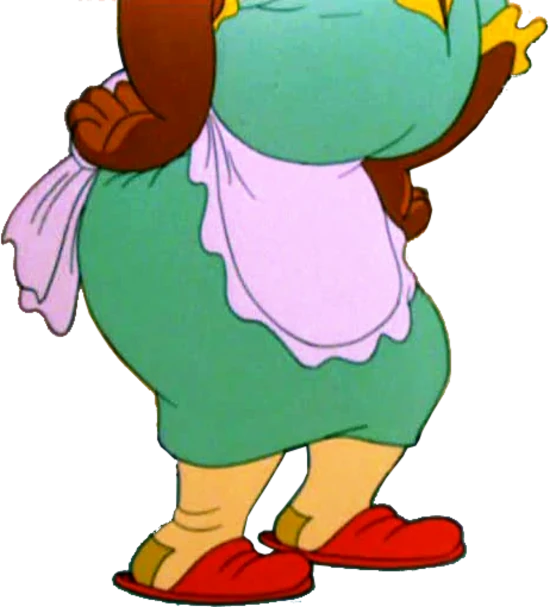
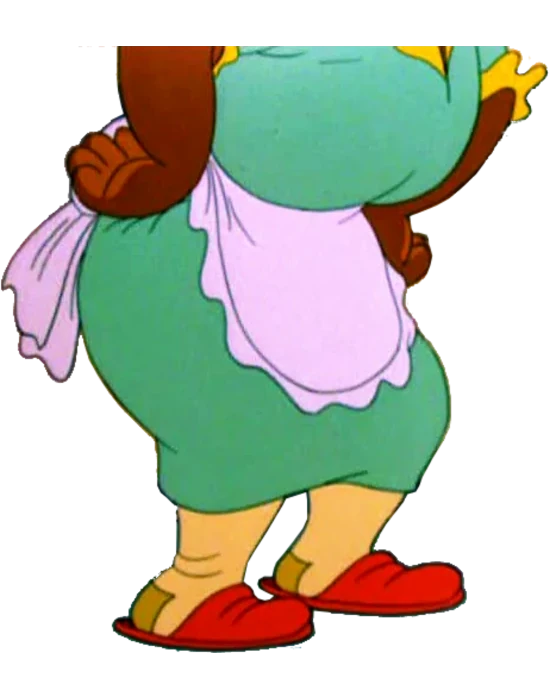
Add working data change on strip click and refactored images on strip

diff --git a/index.html b/index.html
@@ -55,29 +55,29 @@
                 </div>
                 <p class="main__info__text">Jeremy Adam "Jerry" Mouse is a fictional character and is one of two protagonists in Metro-Goldwyn Mayer's series of Tom and Jerry theatrical cartoon short films. Created by William Hanna and Joseph Barbera, he is a brown house mouse, who first appeared as an unnamed mouse in the 1940 MGM animated short Puss Gets the Boot. Hanna gave the mouse's original name as Jinx, while Barbera claimed the mouse went unnamed in his first appearance.</p>
                 <ul class="main__info__strip">
-                    <li class="main__info__strip__link_1">
-                      <a href="#"><img class="main__info__strip__link__image" src="img/jerry_mouse.webp" alt="Jerry Mouse"></a>
+                    <li>
+                      <a href="#"><img id="2jerry" class="main__info__strip__link__image" src="img/jerry_mouse.webp" alt="Jerry Mouse"></a>
                     </li>
-                    <li class="main__info__strip__link_2">
-                      <a href="#"><img class="main__info__strip__link__image" src="img/tom_cat.webp" alt="Tom Cat"></a>
+                    <li>
+                      <a href="#"><img id="2tom" class="main__info__strip__link__image" src="img/tom_cat.webp" alt="Tom Cat"></a>
                     </li>
-                    <li class="main__info__strip__link_3">
-                      <a href="#"><img class="main__info__strip__link__image" src="img/spike_bulldog.webp" alt="Spike Bulldog"></a>
+                    <li>
+                      <a href="#"><img id="2spike" class="main__info__strip__link__image" src="img/spike_bulldog.webp" alt="Spike Bulldog"></a>
                     </li>
-                    <li class="main__info__strip__link_4">
-                      <a href="#"><img class="main__info__strip__link__image" src="img/tyke_bulldog.webp" alt="Tyke Bulldog"></a>
+                    <li>
+                      <a href="#"><img id="2tyke" class="main__info__strip__link__image" src="img/tyke_bulldog.webp" alt="Tyke Bulldog"></a>
                     </li>
-                    <li class="main__info__strip__link_5">
-                      <a href="#"><img class="main__info__strip__link__image" src="img/nibbles_mouse.webp" alt="Nibbles Mouse"></a>
+                    <li>
+                      <a href="#"><img id="2nibbles" class="main__info__strip__link__image" src="img/nibbles_mouse.webp" alt="Nibbles Mouse"></a>
                     </li>
-                    <li class="main__info__strip__link_6">
-                      <a href="#"><img class="main__info__strip__link__image" src="img/mammy_two_shoes.webp" alt="Mammy Two Shoes"></a>
+                    <li>
+                      <a href="#"><img id="2mammy" class="main__info__strip__link__image" src="img/mammy_two_shoes.webp" alt="Mammy Two Shoes"></a>
                     </li>
-                    <li class="main__info__strip__link_7">
-                      <a href="#"><img class="main__info__strip__link__image" src="./img/uncle_pecos.webp" alt="Uncle Pecos"></a>
+                    <li>
+                      <a href="#"><img id="2uncle" class="main__info__strip__link__image" src="./img/uncle_pecos.webp" alt="Uncle Pecos"></a>
                     </li>
-                    <li class="main__info__strip__link_8">
-                      <a href="#"><img class="main__info__strip__link__image" src="./img/toodles_galore.webp" alt="Toodles Galore"></a>
+                    <li>
+                      <a href="#"><img id="2toodles" class="main__info__strip__link__image" src="./img/toodles_galore.webp" alt="Toodles Galore"></a>
                     </li>
                 </ul>
             </main>

diff --git a/script.js b/script.js
@@ -5,18 +5,17 @@ const body = document.body;
 const modeSwitcher = document.querySelector('.switcher');
 const modeSwitcherImage = document.querySelector('.switcher__image');
 const menu = document.querySelector('.main__navigation__menu__list');
+const menuStrip = document.querySelector('.main__info__strip');
 const modeImages = ["img/moon-icon.svg", "img/sun-icon.svg"];
 const burger = document.querySelectorAll('.main__navigation__menu__burger');
-const table = document.querySelector('table');
+//const table = document.querySelector('table');
 const mainName = document.querySelector('.main__info__name');
 const mainImage = document.querySelector('.main__info__image');
 const mainText = document.querySelector('.main__info__text');
 const mainTable = document.querySelectorAll('td');
 
 let selectedA;
-let characterId;
 let modeCounter = 0;
-let chosen;
 
 function changeModeImg() {
     modeCounter = (modeCounter + 1) % modeImages.length;
@@ -156,24 +155,19 @@ const characters = [{
 
 menu.onclick = function(event) {    
   let target = event.target; // де відбувся клік?
-  if (target.tagName != 'A') return; // не на TD? Тоді нас не цікавить
-  highlight(target); // виділити
+  if (target.tagName != 'A') return; // не на <a>? Тоді нас не цікавить
+  highlight(target); // виділити 
 
-  characterId = event.target.getAttribute('id');
-  //console.log(characterId);
-  chosen = characters.filter(char => char.id === characterId)[0];
-  //console.log(chosen);
-  mainName.innerHTML = chosen.name;
-  mainImage.setAttribute('src', chosen.img);
-  mainImage.setAttribute('alt', chosen.alt);
-  mainText.innerHTML = chosen.text;
-    for (const entry of mainTable.values()) {
-      let tdId = entry.id;
-      //console.log('id of td = ' + tdId);
-      //console.log('param of chosen = ' + chosen[tdId]);
-      entry.innerHTML = chosen[tdId];
-    }
-};
+  let characterId = event.target.getAttribute('id');
+  switchData(characterId);
+}
+
+menuStrip.onclick = function(event) {
+    let target = event.target.closest('a'); // де відбувся клік?
+    if (!target) return;
+    let characterId = event.target.getAttribute('id').slice(1);
+    switchData(characterId);
+}
 
 function highlight(a) {
   if (selectedA) {
@@ -183,4 +177,14 @@ function highlight(a) {
   selectedA.classList.add('highlight');
 }
 
-
+function switchData(characterId) {
+    let chosen = characters.filter(char => char.id === characterId)[0];
+    mainName.innerHTML = chosen.name;
+    mainImage.setAttribute('src', chosen.img);
+    mainImage.setAttribute('alt', chosen.alt);
+    mainText.innerHTML = chosen.text;
+    for (const entry of mainTable.values()) {
+      let tdId = entry.id;
+      entry.innerHTML = chosen[tdId];
+    }
+}

diff --git a/exlarge.css b/exlarge.css
@@ -93,37 +93,13 @@
 
   .main__info__strip {
     display: flex;
-    flex: 1 1 auto;
-    /*border: 1px solid;*/
+    flex: 0 0 auto;
+/*    border: 1px solid;*/
     align-items: center;
-  }
-  .main__info__strip__link_1 {
-    flex: calc(550/700);
-  }
-  .main__info__strip__link_2 {
-    flex: calc(550/611);
-  }
-  .main__info__strip__link_3 {
-    flex: calc(550/700);
-  }
-  .main__info__strip__link_4 {
-    flex: calc(550/700);
-  }
-  .main__info__strip__link_5 {
-    flex: calc(550/700);
-  }
-  .main__info__strip__link_6 {
-    flex: calc(550/700);
-  }
-  .main__info__strip__link_7 {
-    flex: calc(550/700);
-  }
-  .main__info__strip__link_8 {
-    flex: calc(550/700);
+    margin-top: 15px;
   }
   .main__info__strip__link__image {
-    width: 100%;
+    width: 80%;
     height: auto;
-    padding: 0 30px;
   }
 }
